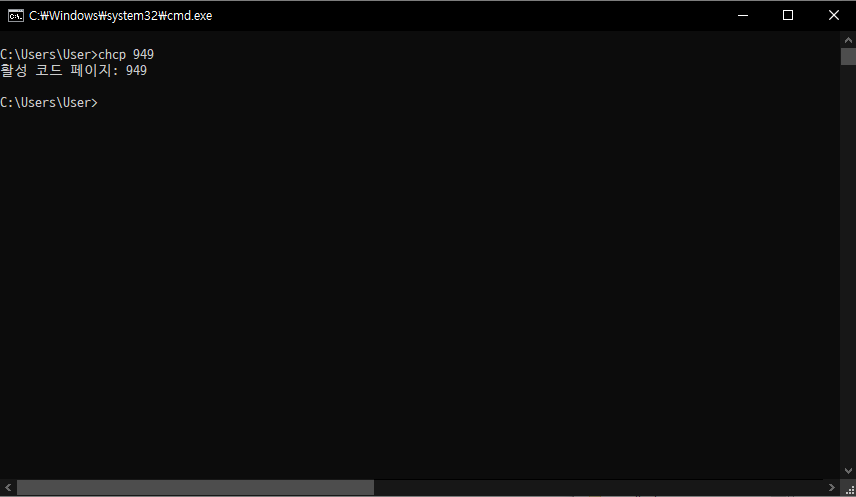
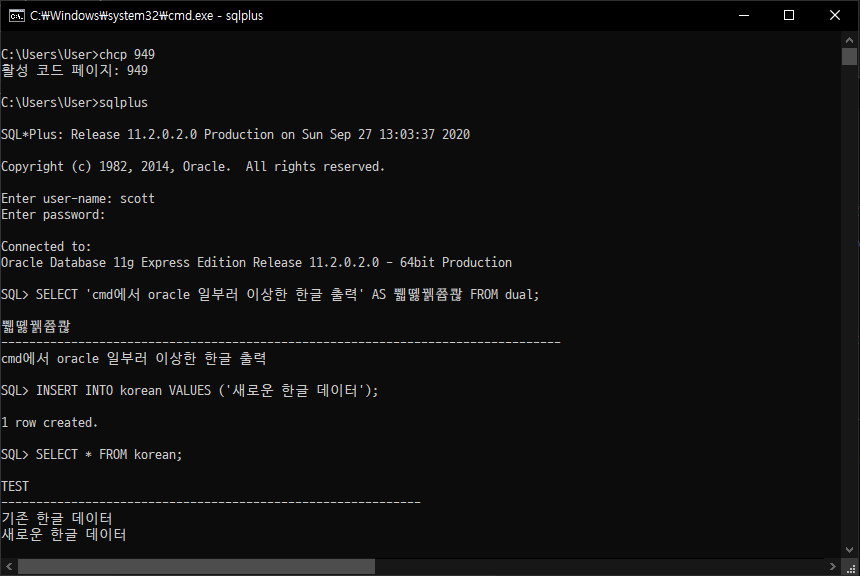
1. edit inline code 2. put some space between paragraphs

diff --git a/_posts/2020-08-29-how-to-show-Korean-in-Oracle-on-cmd.md b/_posts/2020-08-29-how-to-show-Korean-in-Oracle-on-cmd.md
@@ -1,33 +1,57 @@
 ---
 title: "cmd Oracle에서 한글이 나오지 않거나 깨질 때"
-excerpt: "cmd에서 Oracle을 사용할 때 한글이 물음표나 '옜'으로 나온다면 애플리케이션-운영체제-Oracle간 인코딩 형식이 일치하지 않다는 것이다."
+excerpt: "cmd에서 Oracle을 사용할 때 한글이 물음표나 '옜'으로 나온다. NLS_LANG, chcp를 활용하여 인코딩 형식을 통일시켜 해결해보자"
 tags: [Windows, cmd, Oracle, NLS]
 ---
 * toc
 {:toc}
 
 ## 1. 원인
-환경: VMWare Workstation 15 Player, Windows 10, Oracle 11g XE, Command Prompt
-<br><br>cmd에서 한글로 된 데이터를 입력하거나 조회하면 물음표나 빈 칸으로 표시된다. 우선 급한대로 Eclipse에 Oracle을 연결해 사용했다. 그렇다는 것은 UTF-8 인코딩 형식의 데이터는 잘 처리하는 것인데... 한 달 후 해결하기 위해 처음부터 다시 자료를 찾고 이 [글](https://m.blog.naver.com/PostView.nhn?blogId=tyboss&logNo=70036575256){:target="_blank"}을 통해 해결은 했다.
-<br><br>원인은 기대하는 데이터 인코딩 형식이 다르면서 엉뚱한 형식으로 인코딩하는 것이었다. 가령 나는 cmd에서 MS949 형식의 데이터를 입력하는데 운영체제는 입력되는 데이터가 UTF-8이라고 알고 있다. 데이터베이스의 데이터 인코딩 형식이 UTF-8이라면 MS949 → UTF-8 변환을 해야하는데 UTF-8 → UTF-8 변환을 하게 되는 것이다. 이 경우에 내가 입력한 MS949 형식의 데이터는 다른 값으로 표시된다.
-<br><br>![how characters are encoded via application to database](/rsc/img/2020-08-29/cmd-to-database-encoding.png "how characters are encoded via application to database")
-<br><br>따라서 문제를 해결하기 위해서 변환 시 인코딩 형식을 입출력하는 데이터의 인코딩 형식에 맞추거나 입출력하는 데이터의 인코딩 형식를 변환 시 인코딩 형식에 맞춰야 한다.
+환경: VMWare Workstation 15 Player, Windows 10, Oracle 11g XE, cmd
+
+
+cmd에서 한글로 된 데이터를 입력하거나 조회하면 물음표나 빈 칸으로 표시된다. 우선 급한대로 Eclipse에 Oracle을 연결해 사용했다. 그렇다는 것은 UTF-8 인코딩 형식의 데이터는 잘 처리하는 것인데... 한 달 후 결국 이 [글](https://m.blog.naver.com/PostView.nhn?blogId=tyboss&logNo=70036575256){:target="_blank"}을 읽고 해결은 했다.
+
+
+원인은 기대하는 데이터 인코딩 형식이 달라 엉뚱한 형식으로 인코딩하는 것이었다. 가령 나는 cmd에서 MS949 형식의 데이터를 입력하는데 데이터베이스는 입력될 데이터의 형식을 UTF-8으로 알고 있다. 이 때 데이터베이스의 데이터 인코딩 형식이 UTF-8이라면 `MS949 → UTF-8` 변환을 해야하는데 `UTF-8 → UTF-8` 변환을 하게 된다. MS949 데이터를 UTF-8로 간주하여 변환했기에 내가 입력한 데이터는 엉뚱한 형식으로 변환된다.
+
+
+![how characters are encoded via application to database](/rsc/img/2020-08-29/cmd-to-database-encoding.png "how characters are encoded via application to database")
+
+
+따라서 문제를 해결하기 위해서 변환 시의 인코딩 형식을 입출력하는 데이터의 인코딩 형식에 맞추거나 입출력하는 데이터의 인코딩 형식를 변환 시의 인코딩 형식에 맞춰야 한다.
 
 ## 2. Oracle NLS Parameter 확인
 NLS는 National Language Support의 약자로 특정 언어나 형식으로 데이터를 처리할 수 있게 해주는 Oracle의 언어 지원이다. 언어뿐만 아니라 통화, 시간 등 각 국가나 지역의 관습에 맞는 형식을 지원한다. 현재 사용 중인 데이터베이스의 NLS 설정 값은 `nls_database_parameter` 테이블에서 확인할 수 있다. 찾아볼 칼럼은 `NLS_LANGUAGE`로 현재 데이터베이스가 사용하는 문자 인코딩 형식을 의미한다. 쿼리는 다음과 같다
+
 ```
 SELECT * FROM nls_database_parameters WHERE parameter = 'NLS_LANGUAGE';
 ```
+
 나는 기본 값이 'AMERICAN_AMERICA.AL32UTF8'이었다. 되도록 다양한 언어를 지원하는 국제 표준인 UTF-8 형식을 사용하자.
-> 주의: Oracle의 설정을 변경할 때는 의도치 않게 데이터가 변형될 수 있으므로 항상 백업을 준비한다.
+
+> 주의: Oracle의 설정을 변경할 때는 의도치 않게 데이터가 변형될 수 있으므로 중요한 데이터는 항상 백업을 준비한다.
 
 ## 3. NLS_LANG 확인
 이제 클라이언트의 운영체제에 설정된 클라이언트와 Oracle 간의 인코딩 형식을 확인할 차례다. 방금 인코딩 형식을 확인한 것이 아닌가? 아니다. 위에서 확인한 것은 Oracle 데이터베이스 내에서 데이터를 처리할 때 사용하는 인코딩 형식이다. 지금 확인하려는 것은 Oracle이 기대하는 클라이언트 측의 데이터 인코딩 형식이다. 즉 Oracle은 클라이언트가 이 형식으로 데이터를 인코딩해서 전송하거나 수신할 것으로 기대한다는 것이다.
-<br><br>실행`윈도우 키 + R`에서 regedit을 입력하여 레지스트리 편집기를 실행한다. `HKEY_LOCAL_MACHINE\SOFTWARE` 아래 ORACLE 경로에 있는 레지스트리에서 `NLS_LANG`을 찾는다. 어떤 경로에 있을 지는 환경마다 다르니 레지스트리 검색 또는 구글의 도움을 받아 찾는다. 찾은 `NLS_LANG`의 값을 cmd 또는 클라이언트 측 어플리케이션에서 사용하는 인코딩 형식으로 수정한다. 내 경우는 'NLS_LANG'의 초기 값이 `AMERICAN_AMERICA.WE8MSWIN1252`였다. 따라서 `WE8MSWIN1252`를 `KO16MSWIN949`으로 수정했다.
-<br><br>![how to change the value of nls_lang](/rsc/img/2020-08-29/nls_lang.png "how to change the value of nls_lang")
-<br><br>이제 cmd에서 Oracle을 실행하여 한글이 나오는지 확인한다. 아직 한글이 나오지 않는다면 다음 단계로 넘어간다.
+
+
+실행`윈도우 키 + R`에서 `regedit`을 입력하여 레지스트리 편집기를 실행한다. `HKEY_LOCAL_MACHINE\SOFTWARE` 아래 ORACLE 경로에 있는 레지스트리에서 `NLS_LANG`을 찾는다. 어떤 경로에 있을 지는 환경마다 다르니 레지스트리 검색 또는 구글의 도움을 받아 찾는다. 찾은 `NLS_LANG`의 값을 cmd 또는 클라이언트 측 어플리케이션에서 사용하는 인코딩 형식으로 수정한다. 내 경우는 'NLS_LANG'의 초기 값이 `AMERICAN_AMERICA.WE8MSWIN1252`였다. 따라서 `WE8MSWIN1252`를 `KO16MSWIN949`으로 수정했다.
+
+
+![how to change the value of nls_lang](/rsc/img/2020-08-29/nls_lang.png "how to change the value of nls_lang")
+
+
+이제 cmd에서 Oracle을 실행하여 한글이 나오는지 확인한다. 아직 한글이 나오지 않는다면 다음 단계로 넘어간다.
 
 ## 4. cmd chcp 확인
 cmd의 인코딩 형식을 확인한다. cmd를 실행하고 chcp를 입력한다. chcp는 Change Code Page의 약자이다. cmd에서 입출력하는 문자의 인코딩 형식을 정할 수 있다. 나의 초기 Code Page는 United States의 `437`이었다. 내가 설정한 `NLS_LANG`의 값 `KO16MSWIN949`의 인코딩 형식인 `MS949`를 지원하는 Code Page는 `949`이다. 따라서 cmd에서 `chcp 949`을 입력하여 Code Page를 변경한다. 
-<br><br>![how to change chcp](/rsc/img/2020-08-29/chcp.png "chcp")
-<br><br>이제 cmd에서 한글을 입출력할 수 있다.
+
+
+![how to change chcp](/rsc/img/2020-08-29/chcp.png "chcp")
+
+
+이제 cmd에서 한글을 입출력할 수 있다.
+
+
+*추신. 같은 원리로 `chcp 65001`, `NLS_LANG = AMERICAN_AMERICA.AL32UTF8` 등을 설정하여 UTF-8 형식으로 cmd에 데이터를 입출력하려 했으나 실패했다...*
